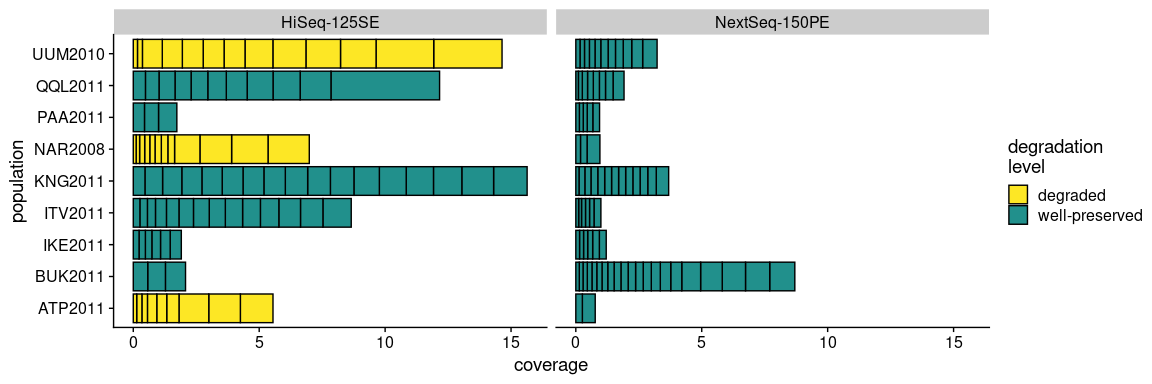
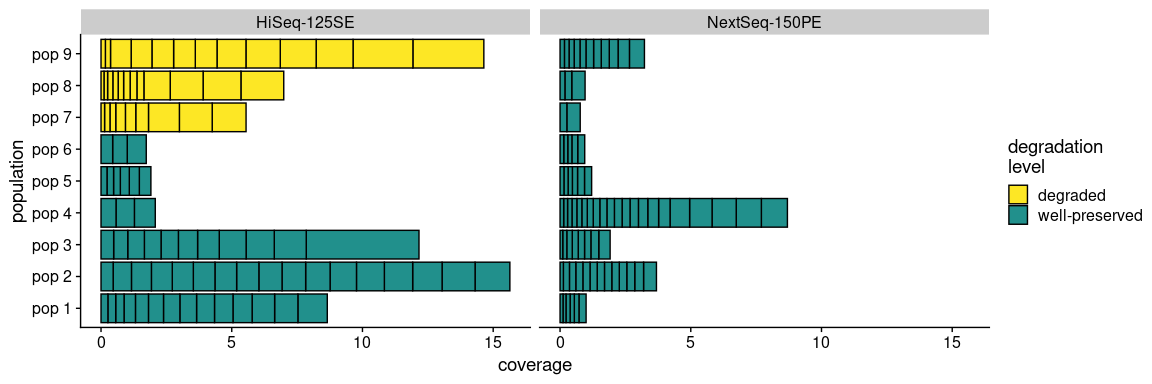
updated figure S1

diff --git a/markdown/original_pipeline.md b/markdown/original_pipeline.md
@@ -53,6 +53,15 @@ pipeline in our calculation of per-sample coverage (Table 1, Figure S1).
 library(tidyverse)
 ```
 
+    ## Warning: replacing previous import 'lifecycle::last_warnings' by
+    ## 'rlang::last_warnings' when loading 'pillar'
+
+    ## Warning: replacing previous import 'lifecycle::last_warnings' by
+    ## 'rlang::last_warnings' when loading 'tibble'
+
+    ## Warning: replacing previous import 'lifecycle::last_warnings' by
+    ## 'rlang::last_warnings' when loading 'hms'
+
     ## ── Attaching packages ─────────────────────────────────────── tidyverse 1.3.1 ──
 
     ## ✓ ggplot2 3.3.3     ✓ purrr   0.3.4
@@ -400,21 +409,6 @@ base_dir = "/workdir/batch-effect/"
 # Read in the full sample table from the Greenland cod project
 sample_table_full <- read_tsv("../../cod/greenland-cod/sample_lists/sample_table_merged_mincov_contamination_filtered.tsv") %>%
   bind_cols(bam_list = read_lines("../../cod/greenland-cod/sample_lists/bam_list_realigned_mincov_contamination_filtered.txt"))
-```
-
-    ## 
-    ## ── Column specification ────────────────────────────────────────────────────────
-    ## cols(
-    ##   sample_seq_id = col_character(),
-    ##   lane_number = col_character(),
-    ##   seq_id = col_character(),
-    ##   sample_id_corrected = col_character(),
-    ##   population = col_character(),
-    ##   data_type = col_character(),
-    ##   population_new = col_character()
-    ## )
-
-``` r
 # Select a subset of populations that were sequenced in both Hiseq and Nextseq platforms
 # Note that there are some QQL samples that appear to be "merged", but they were merged from lane 1 and 2
 sample_table_merged <- filter(sample_table_full, 
@@ -446,20 +440,6 @@ bam_list_realigned <- sample_table_merged %>%
 ## Get unmerged sample table for the select subset of samples
 sample_table_unmerged <- read_tsv("../../cod/greenland-cod/sample_lists/sample_table.tsv") %>%
   semi_join(sample_table_merged, by=c("sample_id"="sample_id_corrected"))
-```
-
-    ## 
-    ## ── Column specification ────────────────────────────────────────────────────────
-    ## cols(
-    ##   prefix = col_character(),
-    ##   lane_number = col_character(),
-    ##   seq_id = col_character(),
-    ##   sample_id = col_character(),
-    ##   population = col_character(),
-    ##   data_type = col_character()
-    ## )
-
-``` r
 ## Fastq list of pe and se samples
 fastq_list_pe <- filter(sample_table_unmerged, lane_number == 7)$prefix
 fastq_list_se <- filter(sample_table_unmerged, lane_number != 7)$prefix
@@ -495,10 +475,27 @@ write_lines(fastq_list_se, "../sample_lists/fastq_list_se.txt")
 
 ``` r
 ## Sample distribution
+sample_table_merged <-read_tsv("../sample_lists/sample_table_merged.tsv") %>%
+  rename(sample_id=sample_id_corrected)
+```
+
+    ## 
+    ## ── Column specification ────────────────────────────────────────────────────────
+    ## cols(
+    ##   sample_seq_id = col_character(),
+    ##   lane_number = col_character(),
+    ##   seq_id = col_character(),
+    ##   sample_id_corrected = col_character(),
+    ##   population = col_character(),
+    ##   data_type = col_character(),
+    ##   population_new = col_character()
+    ## )
+
+``` r
 sample_size_plot <- sample_table_merged %>%
   mutate(data_type=ifelse(data_type=="pe", "NextSeq-150PE", "HiSeq-125SE")) %>%
-  mutate(sample_id_corrected=fct_reorder(sample_id_corrected, data_type)) %>%
-  ggplot(aes(x=population_new, fill=data_type, group=sample_id_corrected)) +
+  mutate(sample_id=fct_reorder(sample_id, data_type)) %>%
+  ggplot(aes(x=population_new, fill=data_type, group=sample_id)) +
   geom_bar(color="black") +
   scale_fill_viridis_d(begin=0.3, end=0.8) +
   xlab("population")+
@@ -514,7 +511,7 @@ sample_size_plot
 ``` r
 ## Number of bases
 base_count <- read_tsv("../sample_lists/count_merged_old.tsv") %>%
-  dplyr::select(sample_id_corrected, final_mapped_bases)
+  transmute(sample_id=sample_id_corrected, final_mapped_bases=final_mapped_bases)
 ```
 
     ## 
@@ -543,8 +540,8 @@ coverage_plot <- sample_table_merged %>%
   mutate(data_type=ifelse(data_type=="pe", "NextSeq-150PE", "HiSeq-125SE")) %>%
   left_join(base_count) %>%
   arrange(data_type, desc(final_mapped_bases)) %>%
-  mutate(sample_id_corrected=as_factor(sample_id_corrected)) %>%
-  ggplot(aes(x=population_new, y=final_mapped_bases/0.67/10^9, fill=data_type, group=sample_id_corrected)) +
+  mutate(sample_id=as_factor(sample_id)) %>%
+  ggplot(aes(x=population_new, y=final_mapped_bases/0.67/10^9, fill=data_type, group=sample_id)) +
   geom_col(color="black") +
   scale_fill_viridis_d(begin=0.3, end=0.8) +
   labs(x="population", y="coverage", fill="batch")+
@@ -552,7 +549,7 @@ coverage_plot <- sample_table_merged %>%
   coord_flip()
 ```
 
-    ## Joining, by = "sample_id_corrected"
+    ## Joining, by = "sample_id"
 
 ``` r
 coverage_plot
@@ -568,7 +565,7 @@ sample_table_merged %>%
   theme_cowplot()
 ```
 
-    ## Joining, by = "sample_id_corrected"
+    ## Joining, by = "sample_id"
 
     ## `stat_bin()` using `bins = 30`. Pick better value with `binwidth`.
 
@@ -581,7 +578,7 @@ sample_table_merged %>%
   summarise(sample_size=n(), avearge_final_coverage=mean(final_mapped_bases)/0.67/10^9)
 ```
 
-    ## Joining, by = "sample_id_corrected"
+    ## Joining, by = "sample_id"
 
     ## # A tibble: 2 x 3
     ##   data_type sample_size avearge_final_coverage
@@ -604,6 +601,8 @@ write_tsv(extraction_info, "../sample_lists/extraction_info.tsv")
 ```
 
 ``` r
+rename_pop <- tibble(population = c("ITV2011", "KNG2011", "QQL2011", "BUK2011", "IKE2011", "PAA2011", "ATP2011", "NAR2008", "UUM2010"),
+                     population_new =c("pop 1", "pop 2", "pop 3", "pop 4", "pop 5", "pop 6", "pop 7", "pop 8", "pop 9"))
 extraction_info <- read_tsv("../sample_lists/extraction_info.tsv") %>%
   filter(extraction_method != "Chan Tn5 bead") %>%
   dplyr::select(sample_id, degradation_level) %>%
@@ -627,19 +626,25 @@ extraction_info <- read_tsv("../sample_lists/extraction_info.tsv") %>%
     ## ℹ Use `spec()` for the full column specifications.
 
 ``` r
-sample_table_degradation <- left_join(sample_table_merged, extraction_info, by=c("sample_id_corrected"="sample_id"))
+sample_table_degradation <- left_join(sample_table_merged, extraction_info, by=c("sample_id"))
 degradation_sample_size <- sample_table_degradation %>%
   mutate(data_type=ifelse(data_type=="pe", "NextSeq-150PE", "HiSeq-125SE")) %>%
-  mutate(sample_id_corrected=fct_reorder(sample_id_corrected, degradation_level)) %>%
+  mutate(sample_id=fct_reorder(sample_id, degradation_level)) %>%
   mutate(degradation_level=ifelse(degradation_level=="1", "well-preserved", "degraded")) %>%
-  ggplot(aes(x=population_new, fill=degradation_level, group=sample_id_corrected)) +
+  dplyr::select(-population_new) %>%
+  left_join(rename_pop) %>%
+  ggplot(aes(x=population_new, fill=degradation_level, group=sample_id)) +
   geom_bar(color="black") +
   scale_fill_viridis_d(begin=0.5, end=1, direction = -1) +
-  xlab("population")+
-  ylab("sample size") +
+  labs(x="population", y="sample size", fill="degradation\nlevel")+
   facet_wrap(~data_type) +
   theme_cowplot() +
   coord_flip()
+```
+
+    ## Joining, by = "population"
+
+``` r
 degradation_sample_size
 ```
 
@@ -651,8 +656,10 @@ degradation_coverage <- sample_table_degradation %>%
   left_join(base_count) %>%
   arrange(desc(final_mapped_bases)) %>%
   mutate(degradation_level=ifelse(degradation_level=="1", "well-preserved", "degraded")) %>%
-  mutate(sample_id_corrected=as_factor(sample_id_corrected)) %>%
-  ggplot(aes(x=population_new, y=final_mapped_bases/0.67/10^9, fill=degradation_level, group=sample_id_corrected)) +
+  mutate(sample_id=as_factor(sample_id)) %>%
+  dplyr::select(-population_new) %>%
+  left_join(rename_pop) %>%
+  ggplot(aes(x=population_new, y=final_mapped_bases/0.67/10^9, fill=degradation_level, group=sample_id)) +
   geom_col(color="black") +
   scale_fill_viridis_d(begin=0.5, end=1, direction = -1) +
   labs(x="population", y="coverage", fill="degradation\nlevel")+
@@ -661,7 +668,9 @@ degradation_coverage <- sample_table_degradation %>%
   coord_flip()
 ```
 
-    ## Joining, by = "sample_id_corrected"
+    ## Joining, by = "sample_id"
+
+    ## Joining, by = "population"
 
 ``` r
 degradation_coverage
